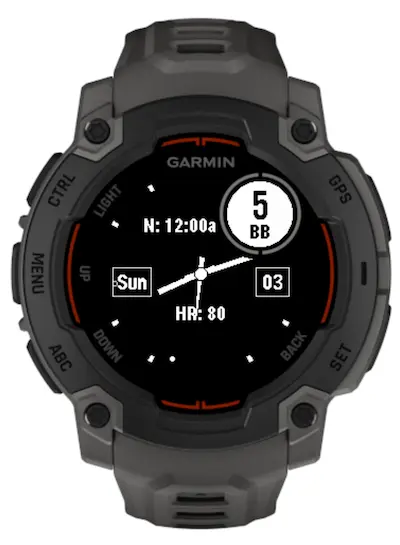
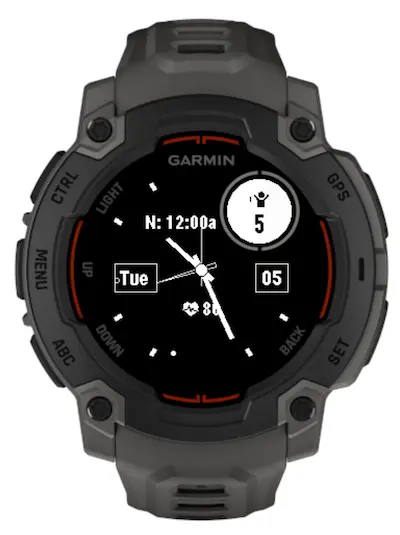
docs: update screenshot

diff --git a/README.md b/README.md
@@ -13,7 +13,7 @@ Added features:
 
 - Body battery on inset circle
 - Second hour hand for alternate time zone (alternating color for day/night)
-- Third hour hand for next calendar event (not pictured in screenshot)
+- Third hour hand for next calendar event
 - Next calendar event display
 - Heart rate display
 
